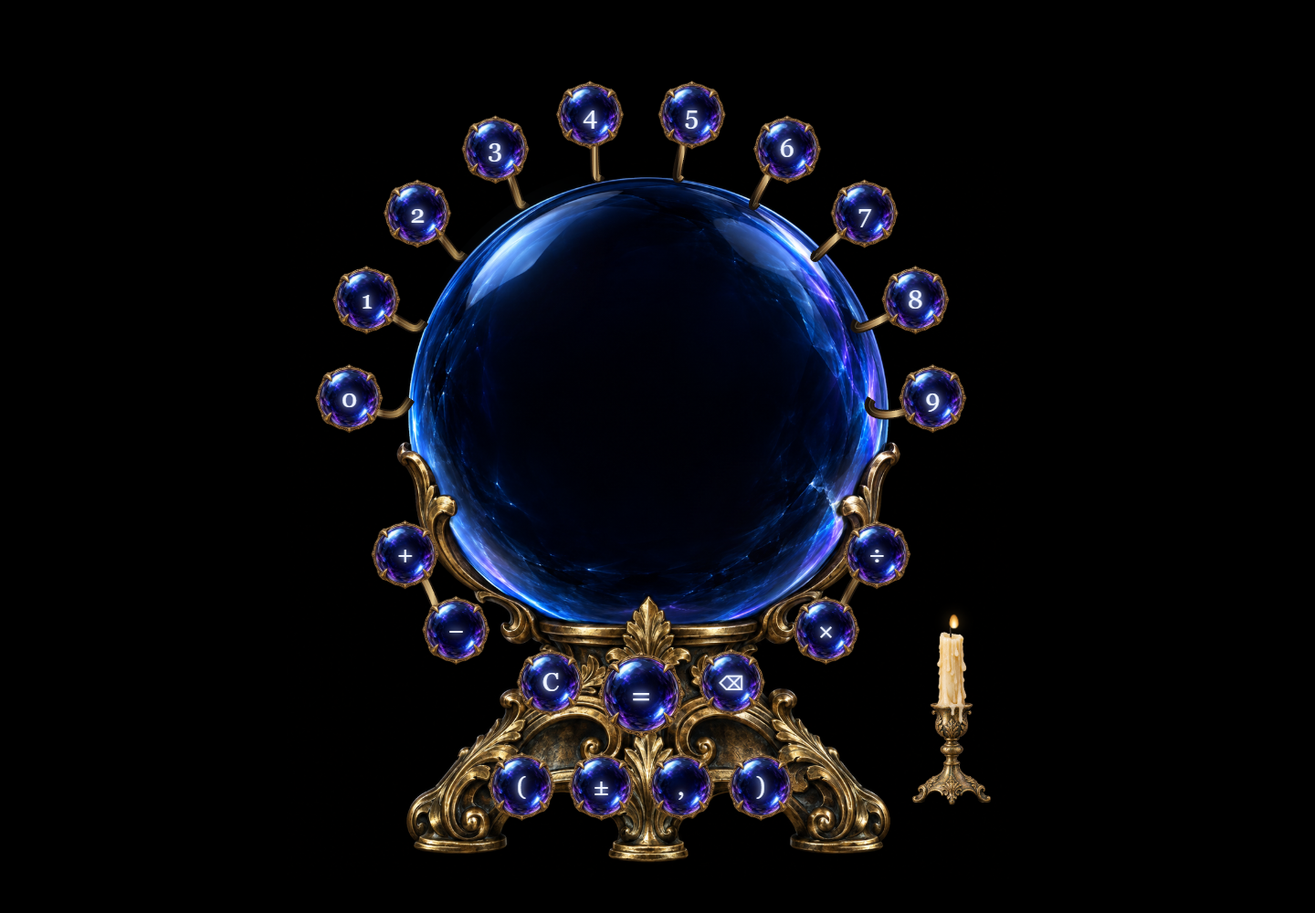
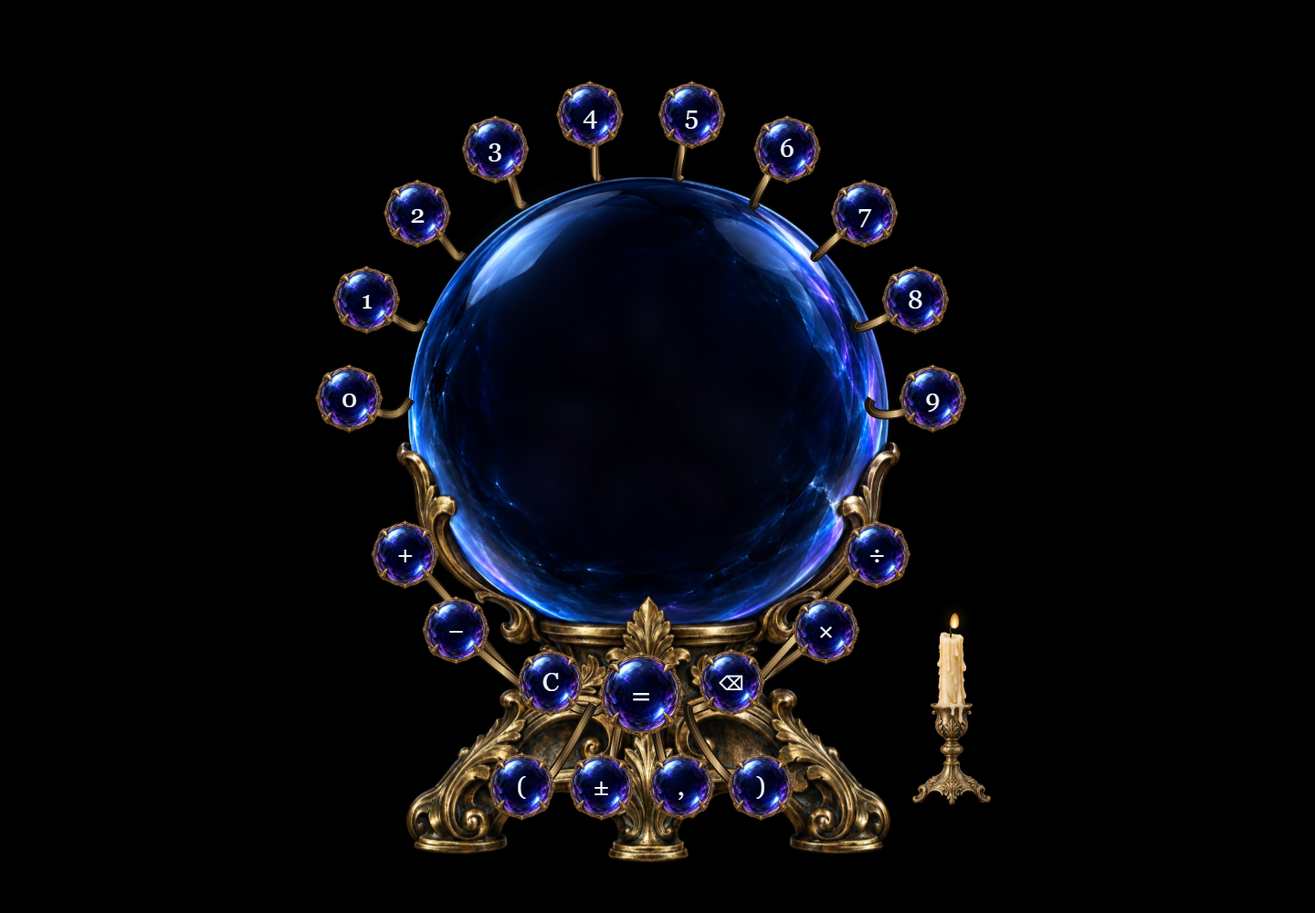
test: verify desktop and portrait behavior and fix review findings

diff --git a/tests/browser/calculator.spec.js b/tests/browser/calculator.spec.js
@@ -1,0 +1,33 @@
+import {test,expect} from '@playwright/test';
+test.beforeEach(async({page})=>{await page.goto('/');await page.waitForFunction(()=>[...document.images].every(i=>i.complete));});
+const key=async(page,text)=>{for(const k of text)await page.keyboard.press(k);};
+const display=page=>page.locator('#display');
+test('empty initial state and local assets',async({page})=>{await expect(display(page)).toHaveText('');expect(await page.locator('img').evaluateAll(images=>images.every(i=>i.naturalWidth>0))).toBe(true);});
+test('mouse and keyboard arithmetic parity',async({page})=>{
+  await page.getByRole('button',{name:'2',exact:true}).click();await page.getByRole('button',{name:'Plus',exact:true}).click();await key(page,'3*4');await page.keyboard.press('Enter');await expect(display(page)).toHaveText('14');
+  await page.keyboard.press('Escape');await key(page,'(2+3)*4');await page.keyboard.press('Enter');await expect(display(page)).toHaveText('20');
+});
+test('decimal comma, negation, nested parentheses',async({page})=>{
+  await key(page,'0.1+0,2');await page.keyboard.press('Enter');await expect(display(page)).toHaveText('0,3');await page.keyboard.press('Escape');
+  await key(page,'25+12');await page.getByRole('button',{name:'Vorzeichen wechseln'}).click();await expect(display(page)).toHaveText('25+(−12)');await page.keyboard.press('Enter');await expect(display(page)).toHaveText('13');
+});
+test('result continuation and fresh digit',async({page})=>{await key(page,'1/3');await page.keyboard.press('Enter');await expect(display(page)).not.toHaveText('1÷3');await key(page,'*3');await page.keyboard.press('Enter');await expect(display(page)).toHaveText('1');await page.keyboard.press('7');await expect(display(page)).toHaveText('7');});
+test('hidden smoke count reverses without lost input',async({page})=>{await key(page,'123456789012');await expect(display(page)).toHaveText('456789012');await expect(page.locator('#orb')).toHaveAttribute('data-hidden','3');await page.keyboard.press('Backspace');await expect(display(page)).toHaveText('345678901');await expect(page.locator('#orb')).toHaveAttribute('data-hidden','2');});
+test('repeated equals does not restart result vision',async({page})=>{await key(page,'2+2');await page.keyboard.press('Enter');await page.waitForTimeout(700);await page.keyboard.press('Enter');await expect(display(page)).toHaveText('4',{timeout:800});});
+for(const delay of [80,700,1200])test('C cancels result at '+delay+'ms',async({page})=>{await key(page,'2+3');await page.keyboard.press('Enter');await page.waitForTimeout(delay);await page.keyboard.press('Escape');await expect(display(page)).toHaveText('');await page.waitForTimeout(1500);await expect(display(page)).toHaveText('');await key(page,'8');await expect(display(page)).toHaveText('8');});
+for(const delay of [120,1100,2500])test('C cancels wizard and audio at '+delay+'ms',async({page})=>{await key(page,'5/(3-3)');await page.keyboard.press('Enter');await page.waitForTimeout(delay);await page.keyboard.press('Escape');await expect(page.locator('#wizard')).toHaveCSS('opacity','0');await expect(display(page)).toHaveText('');await key(page,'9');await page.waitForTimeout(1300);await expect(display(page)).toHaveText('9');});
+test('wizard changes facial frames and returns to idle',async({page})=>{await key(page,'5/0');await page.keyboard.press('Enter');await page.waitForTimeout(1000);await expect(page.locator('#wizard')).not.toHaveCSS('opacity','0');const first=await page.locator('#wizard').evaluate(e=>e.style.backgroundPosition);await page.waitForTimeout(150);const second=await page.locator('#wizard').evaluate(e=>e.style.backgroundPosition);expect(first).not.toEqual(second);await expect(page.locator('#artifact')).toHaveAttribute('data-state','idle',{timeout:3500});await expect(display(page)).toHaveText('');});
+test('sound persists across reload and keyboard toggles candle',async({page})=>{const candle=page.locator('#candle');await candle.click();await expect(candle).toHaveAttribute('aria-pressed','false');await page.reload();await expect(candle).toHaveAttribute('aria-pressed','false');await candle.focus();await page.keyboard.press('Enter');await expect(candle).toHaveAttribute('aria-pressed','true');});
+test('geometry: symmetry, no hit overlap, viewport bounds, centered display',async({page})=>{
+  await key(page,'123+456');
+  const geometry=await page.evaluate(()=>{
+    const rect=e=>{const r=e.getBoundingClientRect();return{x:r.x,y:r.y,w:r.width,h:r.height};};
+    return{controls:[...document.querySelectorAll('.sphere')].map(e=>({action:e.dataset.action,...rect(e)})),orb:rect(document.querySelector('#orb')),display:rect(document.querySelector('#display')),w:innerWidth,h:innerHeight};
+  });
+  const {controls,orb}=geometry;
+  for(const c of controls){expect(c.x).toBeGreaterThanOrEqual(0);expect(c.y).toBeGreaterThanOrEqual(0);expect(c.x+c.w).toBeLessThanOrEqual(geometry.w);expect(c.y+c.h).toBeLessThanOrEqual(geometry.h);}
+  for(let i=0;i<10;i++){const a=controls[i],b=controls[9-i];expect(Math.abs(a.y-b.y)).toBeLessThan(.1);expect(Math.abs((a.x+a.w/2+b.x+b.w/2)/2-(orb.x+orb.w/2))).toBeLessThan(.1);}
+  for(let i=0;i<controls.length;i++)for(let j=i+1;j<controls.length;j++){const a=controls[i],b=controls[j];const distance=Math.hypot(a.x+a.w/2-b.x-b.w/2,a.y+a.h/2-b.y-b.h/2);expect(distance).toBeGreaterThanOrEqual((a.w+b.w)/2-.1);}
+  expect(Math.abs(geometry.display.y+geometry.display.h/2-orb.y-orb.h/2)).toBeLessThan(.1);
+});
+test('no runtime errors during rapid interruptions',async({page})=>{const errors=[];page.on('pageerror',e=>errors.push(e.message));for(let i=0;i<12;i++){await key(page,'2+2');await page.keyboard.press('Enter');await page.keyboard.press('Escape');await key(page,'5/0');await page.keyboard.press('Enter');await page.keyboard.press('Escape');}expect(errors).toEqual([]);});

diff --git a/src/style.css b/src/style.css
@@ -2,3 +2,14 @@
 *{box-sizing:border-box}html,body{margin:0;width:100%;height:100%;overflow:hidden;background:#000}main{width:100%;height:100%;position:relative;isolation:isolate}.artifact{position:absolute;left:50%;top:50%;transform-origin:center;user-select:none;-webkit-user-select:none}.artifact-body{position:absolute;height:auto;pointer-events:none;z-index:1}.supports{position:absolute;inset:0;width:100%;height:100%;pointer-events:none;z-index:2}.foreground-frame{z-index:7;clip-path:inset(64% 0 0)}.orb{position:absolute;border-radius:50%;overflow:hidden;z-index:3;isolation:isolate;pointer-events:none}.orb canvas{position:absolute;inset:0;width:100%;height:100%;pointer-events:none}#rear-smoke{z-index:1}#front-smoke{z-index:4}.display{position:absolute;left:50%;top:50%;transform:translate(-50%,-50%);display:flex;align-items:center;justify-content:center;white-space:nowrap;font-size:46px;font-weight:400;line-height:1;height:56px;z-index:2;filter:drop-shadow(0 0 3px #acdfff99) drop-shadow(0 0 9px #707bec80);font-variant-numeric:lining-nums tabular-nums}.glyph{display:inline-block;min-width:.52em;text-align:center}.glyph.optical{padding-inline:.04em}.glass-reflection{position:absolute;inset:0;border-radius:50%;z-index:5;background:radial-gradient(ellipse at 24% 17%,#b6e2ff08,transparent 19%),radial-gradient(ellipse at 76% 79%,#7065ff06,transparent 20%);animation:breath 9s ease-in-out infinite alternate}.sphere{position:absolute;z-index:8;padding:0;border:0;background:transparent url('../assets/control.png') center/100% 100% no-repeat;cursor:pointer;border-radius:50%;font-family:inherit;color:#f0f5ff;touch-action:manipulation;-webkit-tap-highlight-color:transparent}.sphere span{font-size:31px;line-height:1;display:block;filter:drop-shadow(0 0 4px #a8ccff) drop-shadow(0 0 7px #6767cc);position:relative;top:-1px}.sphere[data-action='='] span{font-size:39px}.sphere[data-action='backspace'] span{font-size:26px}.sphere::after{content:'';position:absolute;inset:16%;border-radius:50%;background:radial-gradient(ellipse at 36% 30%,#c3ebff70,#8a77ff18 45%,transparent 72%);opacity:0;transition:opacity .18s;pointer-events:none}.sphere:hover::after{opacity:.43}.sphere:focus-visible{outline:1px solid #bfe6ff;outline-offset:2px}.sphere.active::after{animation:activate .32s ease-out}.candle{position:absolute;z-index:9;appearance:none;border:0;background:transparent;cursor:pointer;padding:0;clip-path:inset(-12% 25% 0);touch-action:manipulation}.candle img{width:100%;height:100%;display:block;pointer-events:none}.flame{position:absolute;left:48.5%;top:-4%;width:5%;height:8%;border-radius:55% 45% 48% 48%;background:radial-gradient(ellipse at 50% 78%,#fffce5 0 15%,#ffcf70 35%,#ed922ccc 65%,transparent 73%);filter:drop-shadow(0 0 8px #eead4b70);transform-origin:50% 100%;animation:flicker 1.7s ease-in-out infinite alternate;transition:opacity .12s}.candle.muted .flame{opacity:0}.candle:focus-visible{filter:drop-shadow(0 0 3px #bdd9ff)}.wick-smoke{position:absolute;left:49%;top:-10%;width:4%;height:14%;border-radius:50%;background:linear-gradient(transparent,#acbbcf60,transparent);filter:blur(3px);opacity:0}.candle.extinguishing .wick-smoke{animation:wick 1.2s ease-out}.wizard{position:absolute;left:19%;top:29%;width:62%;height:62%;background-image:url('../assets/wizard-laugh.png');background-size:400% 200%;background-position:0 0;z-index:3;opacity:0;mask-image:linear-gradient(#000 0 60%,transparent 100%);filter:drop-shadow(0 0 15px #7672cd55)}.sr-only{position:absolute;width:1px;height:1px;padding:0;margin:-1px;overflow:hidden;clip:rect(0,0,0,0);white-space:nowrap;border:0}
 @keyframes breath{to{opacity:.48}}@keyframes activate{0%{opacity:.95}100%{opacity:0}}@keyframes flicker{0%,100%{transform:rotate(-2deg) scaleY(.94)}24%{transform:rotate(3deg) scaleY(1.03)}51%{transform:rotate(-1deg) scaleY(.98)}77%{transform:rotate(2deg) scaleY(1.07)}}@keyframes wick{0%{opacity:.55;transform:translateY(4px) rotate(-5deg)}100%{opacity:0;transform:translateY(-30px) rotate(13deg)}}
 @media(prefers-reduced-motion:reduce){.glass-reflection,.flame{animation:none}.sphere::after{transition:none}}
+
+/* Keep static art in explicit compositor layers while glyph filters animate. */
+.artifact-body,.supports,#controls{transform:translateZ(0)}
+#controls{position:absolute;inset:0;z-index:8;pointer-events:none}
+.sphere{pointer-events:auto}
+
+/* Luminous scattering is painted in the crystal canvas, avoiding filtered DOM compositing corruption. */
+.display{filter:none}
+.sphere span{filter:none}
+
+.foreground-frame{display:none}

diff --git a/src/state.js b/src/state.js
@@ -1,7 +1,7 @@
 import { calculate } from './evaluator.js';
 import { normalize, formatResult, displayWindow } from './formatter.js';
 import { validPrefix, isComplete, negateLastNumber } from './input.js';
-export const initialState = () => ({ expression: '', result: null, mode: 'idle', revision: 0, effect: null });
+export const initialState = () => ({ expression: '', result: null, displayPrefix: null, mode: 'idle', revision: 0, effect: null });
 export function reduce(state, action) {
   if (action === 'C') return { ...initialState(), revision: state.revision + 1, effect: { type: 'clear' } };
   if (state.mode === 'error') return state;
@@ -13,12 +13,17 @@ export function reduce(state, action) {
       return { ...state, expression: '', result: null, mode: 'error', revision: state.revision + 1, effect: { type: 'error' } };
     }
   }
-  let expression = state.expression;
+  let expression = state.expression, displayPrefix = state.displayPrefix;
   if (state.mode === 'result') {
+    displayPrefix = null;
     if (/^[0-9,(]$/.test(action)) expression = '';
-    else if (action === 'backspace') expression = String(state.result);
-    else expression = String(state.result);
+    else if (action === 'backspace') expression = normalize(state.result);
+    else {
+      expression = String(state.result);
+      displayPrefix = { raw: expression, text: normalize(state.result) };
+    }
   }
+  if (action === 'backspace' && displayPrefix && expression === displayPrefix.raw) { expression = displayPrefix.text; displayPrefix = null; }
   if (action === 'backspace') expression = expression.slice(0, -1);
   else if (action === '+/-') expression = negateLastNumber(expression);
   else {
@@ -27,12 +32,14 @@ export function reduce(state, action) {
     expression += char === '.' && (!expression || /[+*/(-]$/.test(expression)) ? '0.' : char;
   }
   if (!validPrefix(expression) || expression === state.expression && state.mode !== 'result') return state;
-  const previous = displayWindow(state.mode === 'result' ? formatResult(state.result) : state.expression);
-  const next = displayWindow(expression);
-  return { expression, result: null, mode: expression ? 'input' : 'idle', revision: state.revision + 1, effect: { type: 'input', delta: next.hidden - previous.hidden, reverse: action === 'backspace' } };
+  if(displayPrefix && !expression.startsWith(displayPrefix.raw))displayPrefix=null;
+  const previous = presentation(state);
+  const next = presentation({expression,displayPrefix,mode:'input'});
+  return { expression, result: null, displayPrefix, mode: expression ? 'input' : 'idle', revision: state.revision + 1, effect: { type: 'input', delta: next.hidden - previous.hidden, reverse: action === 'backspace' } };
 }
 export function presentation(state) {
   if (state.mode === 'result') return { full: normalize(state.result), visible: formatResult(state.result), hidden: 0 };
-  return displayWindow(state.expression);
+  const prefix=state.displayPrefix;
+  return displayWindow(prefix&&state.expression.startsWith(prefix.raw)?prefix.text+state.expression.slice(prefix.raw.length):state.expression);
 }
 

diff --git a/src/display.js b/src/display.js
@@ -1,12 +1,26 @@
 export class Display {
-  constructor(element) {this.element=element;this.text='';}
+  constructor(element) {
+    this.element=element;this.text='';
+    this.glow=document.createElement('canvas');this.glow.width=this.glow.height=570;this.glow.style.zIndex='2';
+    element.parentElement.insertBefore(this.glow,element);this.context=this.glow.getContext('2d');
+  }
+  paintGlow(){
+    const ctx=this.context;ctx.clearRect(0,0,570,570);ctx.font='46px Georgia';ctx.textAlign='center';ctx.textBaseline='middle';ctx.fillStyle='#b7d3ff';ctx.shadowColor='#8298f0';ctx.shadowBlur=12;ctx.globalAlpha=.4;
+    for(const el of this.element.children){const x=(570-this.element.offsetWidth)/2+el.offsetLeft+el.offsetWidth/2;ctx.fillText(el.textContent,x,285);}
+  }
+  points() {
+    const orb=this.element.parentElement.getBoundingClientRect();
+    return [...this.element.children].map(el=>{const r=el.getBoundingClientRect();return{x:(r.x+r.width/2-orb.x)/orb.width,y:.5};});
+  }
   show(text, {animate=true,reverse=false}={}) {
     const previous=this.text; this.text=text;
-    const oldPositions=[...this.element.children].map(el=>({char:el.textContent,left:el.offsetLeft}));
+    const scale=this.element.parentElement.getBoundingClientRect().width/this.element.parentElement.offsetWidth;
+    const oldPositions=[...this.element.children].map(el=>({char:el.textContent,left:el.getBoundingClientRect().left}));
     this.element.replaceChildren();
     for(const char of text) {
       const el=document.createElement('span'); el.className='glyph'+(/[+−×÷()]/.test(char)?' optical':''); el.textContent=char;this.element.append(el);
     }
+    this.paintGlow();
     if(!animate)return;
     const nodes=[...this.element.children];
     nodes.forEach((el,i)=> {
@@ -14,11 +28,11 @@ export class Display {
       if(previous.length===9&&text.length===9)from=reverse?i-1:i+1;
       const old=oldPositions[from];
       if(old?.char===el.textContent) {
-        const dx=old.left-el.offsetLeft;
+        const dx=(old.left-el.getBoundingClientRect().left)/scale;
         if(dx)el.animate([{transform:`translateX(${dx}px)`},{transform:'translateX(0)'}],{duration:190,easing:'ease-out'});
       } else el.animate([{opacity:0,filter:'blur(6px)'},{opacity:1,filter:'blur(0px)'}],{duration:220});
     });
   }
-  cancel() { for(const animation of this.element.getAnimations({subtree:true}))animation.cancel();this.element.style.opacity='1';this.element.style.filter=''; }
-  dissolve(duration=260) {return this.element.animate([{opacity:1,filter:'blur(0)'},{opacity:0,filter:'blur(10px)'}],{duration,fill:'forwards'});}
+  cancel() { for(const animation of [...this.element.getAnimations({subtree:true}),...this.glow.getAnimations()])animation.cancel();this.element.style.opacity='1';this.element.style.filter=''; }
+  dissolve(duration=260) {this.glow.animate([{opacity:1},{opacity:0}],{duration,fill:'forwards'});return this.element.animate([{opacity:1},{opacity:0}],{duration,fill:'forwards'});}
 }

diff --git a/src/smoke.js b/src/smoke.js
@@ -4,7 +4,7 @@ export class Smoke {
     this.canvases=[rear,front];this.contexts=this.canvases.map(c=>c.getContext('2d'));this.particles=[];this.hidden=0;this.mode='idle';this.energy=0;this.last=0;this.frame=0;
     this.reduced=matchMedia('(prefers-reduced-motion: reduce)').matches;
     this.sprites=['115,138,240','114,83,210','46,42,77'].map(rgb=>{
-      const c=document.createElement('canvas');c.width=c.height=96;const ctx=c.getContext('2d'),g=ctx.createRadialGradient(48,48,0,48,48,48);g.addColorStop(0,`rgba(${rgb},.35)`);g.addColorStop(.4,`rgba(${rgb},.15)`);g.addColorStop(1,`rgba(${rgb},0)`);ctx.fillStyle=g;ctx.fillRect(0,0,96,96);return c;
+      const c=document.createElement('canvas');c.width=c.height=96;const ctx=c.getContext('2d'),g=ctx.createRadialGradient(48,48,0,48,48,48);g.addColorStop(0,`rgba(${rgb},.75)`);g.addColorStop(.4,`rgba(${rgb},.35)`);g.addColorStop(1,`rgba(${rgb},0)`);ctx.fillStyle=g;ctx.fillRect(0,0,96,96);return c;
     });
     this.resize=()=>{const width=rear.getBoundingClientRect().width;const size=Math.min(900,Math.max(256,Math.round(width*Math.min(devicePixelRatio,1.6))));this.size=size;for(const c of this.canvases)c.width=c.height=size;};
     addEventListener('resize',this.resize);this.resize();this.tick=this.tick.bind(this);this.frame=requestAnimationFrame(this.tick);
@@ -27,11 +27,11 @@ export class Smoke {
       ctx.clearRect(0,0,size,size);ctx.save();ctx.scale(size,size);ctx.beginPath();ctx.arc(.5,.5,.485,0,Math.PI*2);ctx.clip();
       const count=layer?5:12;
       for(let i=0;i<count;i++){
-        const angle=i*2.399+t*(this.reduced?.008:.026)*(i%2?1:-1);
+        const angle=i*2.399+t*(this.reduced?.008:this.mode==='error'?.23:.026)*(i%2?1:-1);
         const radius=this.mode==='result'?.07+.07*Math.sin(t*3+i):.2+.06*Math.sin(i+t*.12);
-        const x=.5+Math.cos(angle)*radius,y=.55+Math.sin(angle)*radius*.82;
+        const x=.5+Math.cos(angle)*radius,y=(layer&&this.mode==='error'?.76:.55)+Math.sin(angle)*radius*.82;
         const extent=.28+.08*Math.sin(i*1.7+t*.2);
-        ctx.globalAlpha=(layer?.14:.33)*(0.19+Math.log1p(this.hidden)*.12+this.energy*1.8);
+        ctx.globalAlpha=clamp((layer?.18:.38)*(0.12+Math.log1p(this.hidden)*.12+this.energy*1.8),0,1);
         if(this.mode==='error')ctx.globalAlpha*=1.35;
         ctx.save();ctx.translate(x,y);ctx.rotate(angle);ctx.scale(1,.58+.1*Math.sin(t+i));
         ctx.drawImage(this.sprites[this.mode==='error'?2:i%2],-extent/2,-extent/2,extent,extent);ctx.restore();

diff --git a/tests/animation.test.js b/tests/animation.test.js
@@ -1,0 +1,30 @@
+import test from 'node:test';
+import assert from 'node:assert/strict';
+import { AnimationController } from '../src/animation.js';
+import { AudioController } from '../src/audio.js';
+function fixture(){
+  let callback=null,shown='2+2',laughs=0,stops=0,ended=0;
+  globalThis.requestAnimationFrame=fn=>{callback=fn;return 1;};globalThis.cancelAnimationFrame=()=>{callback=null;};
+  const display={text:shown,points:()=>[{x:.5,y:.5}],cancel(){},dissolve(){},show(text){shown=text;}};
+  const smoke={mode:'idle',setHidden(){},burst(){},reset(){}};
+  const audio={stop(){stops++;},laugh(){laughs++;}};
+  const wizard={style:{}};
+  const controller=new AnimationController({display,smoke,audio,wizard,onErrorEnd(){ended++;}});
+  return{controller,wizard,step(time){const fn=callback;callback=null;fn?.(time);},get shown(){return shown;},get laughs(){return laughs;},get stops(){return stops;},get ended(){return ended;}};
+}
+test('wizard has exactly three laugh impulses on its visual timeline',()=>{
+  const f=fixture();f.controller.error();const start=performance.now();
+  for(const time of [0,850,950,1290,1530,1800,2210,2410,2900,3501])f.step(start+time);
+  assert.equal(f.laughs,3);assert.equal(f.ended,1);assert.equal(f.wizard.style.opacity,'0');
+});
+test('clear invalidates pending result and wizard frames',()=>{
+  for(const mode of ['result','error']){const f=fixture();f.controller[mode]('4');f.controller.clear();f.step(performance.now()+5000);assert.equal(f.shown,'');assert.equal(f.laughs,0);assert.equal(f.wizard.style.opacity,'0');assert.ok(f.stops>=2);}
+});
+test('result is present at 1.1 seconds and final settling ends at 1.4 seconds',()=>{
+  const f=fixture();f.controller.result('4');const start=performance.now();f.step(start+1110);assert.equal(f.shown,'4');assert.equal(f.controller.mode,'settling');f.step(start+1410);assert.equal(f.controller.mode,'idle');
+});
+test('audio stop disconnects every registered node and stops every source',()=>{
+  const audio=new AudioController();let stops=0,disconnects=0;
+  audio.nodes.add({stop(){stops++;},disconnect(){disconnects++;}});audio.nodes.add({disconnect(){disconnects++;}});
+  audio.stop();assert.equal(stops,1);assert.equal(disconnects,2);assert.equal(audio.nodes.size,0);
+});

diff --git a/src/layout.js b/src/layout.js
@@ -1,6 +1,6 @@
 export const masters = {
   standard: { width: 1000, height: 1000, cx: 480, cy: 430, diameter: 570, arcX: 355, arcY: 350, baseY: 790, candle: [858,815,230] },
-  portrait: { width: 780, height: 1100, cx: 390, cy: 430, diameter: 570, arcX: 335, arcY: 345, baseY: 790, candle: [708,932,200] }
+  portrait: { width: 780, height: 1100, cx: 390, cy: 430, diameter: 570, arcX: 335, arcY: 345, baseY: 790, candle: [721,999,160] }
 };
 export function coordinates(master) {
   const { cx, cy, arcX, arcY, baseY } = master;
@@ -42,7 +42,7 @@ export function mountLayout(activate) {
     const svg=document.querySelector('#supports'); svg.setAttribute('viewBox',`0 0 ${current.width} ${current.height}`);
     // Multi-pass metal relief: dark load-bearing silhouette, warm patina and a narrow reflected edge.
     const paths=positions.map(p=> {
-      const target=p.digit?{x:current.cx+(p.x-current.cx)*0.79,y:current.cy+(p.y-current.cy)*0.79}:{x:current.cx+(p.x-current.cx)*0.72,y:current.baseY+12};
+      const target=p.digit?{x:current.cx+(p.x-current.cx)*0.79,y:current.cy+(p.y-current.cy)*0.79}:{x:current.cx+(p.x-current.cx)*0.4,y:current.baseY+12};
       return `M${p.x} ${p.y} C${p.x+(current.cx-p.x)*0.16} ${p.y+32},${target.x-12} ${target.y+18},${target.x} ${target.y}`;
     });
     svg.innerHTML='<defs><linearGradient id="metal"><stop stop-color="#17100a"/><stop offset=".23" stop-color="#876239"/><stop offset=".42" stop-color="#dfc38a"/><stop offset=".56" stop-color="#4e341b"/><stop offset=".81" stop-color="#a88750"/><stop offset="1" stop-color="#21170e"/></linearGradient></defs>'+paths.map(d=>`<path d="${d}" fill="none" stroke="#1d150e" stroke-width="12"/><path d="${d}" fill="none" stroke="url(#metal)" stroke-width="8"/><path d="${d}" fill="none" stroke="#dbca9a" stroke-opacity=".35" stroke-width="1"/>`).join('');

diff --git a/src/animation.js b/src/animation.js
@@ -6,14 +6,15 @@ export class AnimationController {
   }
   clear(){this.cancel();this.smoke.reset();this.display.show('',{animate:false});}
   input(text,hidden,effect){
+    const previousPoints=this.display.points();
     this.cancel();this.smoke.setHidden(hidden);this.display.show(text,{reverse:effect.reverse});
-    if(effect.delta){this.smoke.burst(.22,.5,Math.min(36,Math.abs(effect.delta)*15),effect.delta<0);}
-    else if(text)this.smoke.burst(.5+Math.min(text.length,9)*.024,.5,5);
+    const nextPoints=this.display.points();
+    if(effect.delta){const points=effect.delta<0?nextPoints:previousPoints;for(const p of points.slice(0,Math.abs(effect.delta)))this.smoke.burst(p.x,p.y,15,effect.delta<0);}
+    else if(text){const p=nextPoints.at(-1);if(p)this.smoke.burst(p.x,p.y,5);}
   }
   result(text){
     this.cancel();this.mode='result';this.smoke.mode='result';this.smoke.energy=1;this.smoke.setHidden(0);this.display.dissolve();
-    const count=Math.max(1,this.display.text.length);
-    for(let i=0;i<count;i++)this.smoke.burst(.5+(i-(count-1)/2)*.05,.5,12);
+    for(const p of this.display.points())this.smoke.burst(p.x,p.y,12);
     const generation=this.generation,start=performance.now();let materialized=false;
     const tick=now=>{
       if(generation!==this.generation)return;

diff --git a/tests/core.test.js b/tests/core.test.js
@@ -49,3 +49,8 @@ test('rapid entry and reversal never desynchronize hidden count', () => {
   assert.equal(presentation(s).visible,'');
 });
 test('depth and input limits prevent runaway work', () => { assert.equal(validPrefix('('.repeat(129)),false); assert.equal(validPrefix('1'.repeat(513)),false); });
+test('continuation hides floating artifacts without changing internal precision',()=>{
+  const result=type([...'0,1+0,2','=']);const next=reduce(result,'+');
+  assert.equal(presentation(next).visible,'0,3+');assert.equal(next.expression,'0.30000000000000004+');
+  const shortened=reduce(reduce(next,'backspace'),'backspace');assert.equal(shortened.expression,'0.');
+});

diff --git a/playwright.config.js b/playwright.config.js
@@ -1,0 +1,7 @@
+import { defineConfig } from '@playwright/test';
+export default defineConfig({
+  testDir:'./tests/browser',fullyParallel:false,workers:1,timeout:15000,
+  use:{baseURL:'http://127.0.0.1:4173',channel:'msedge',headless:true},
+  webServer:{command:'npm.cmd start',url:'http://127.0.0.1:4173',reuseExistingServer:true},
+  projects:[{name:'desktop',use:{viewport:{width:1440,height:1000}}},{name:'portrait',use:{viewport:{width:390,height:844},isMobile:true,hasTouch:true}}]
+});

diff --git a/index.html b/index.html
@@ -21,7 +21,6 @@
         <canvas id="front-smoke"></canvas>
         <div class="glass-reflection"></div>
       </div>
-      <img class="artifact-body foreground-frame" src="assets/artifact.png" alt="" draggable="false">
       <div id="controls"></div>
       <button id="candle" class="candle" type="button" aria-label="Ton ausschalten" aria-pressed="true">
         <img src="assets/candle.png" alt="" draggable="false"><span class="flame"></span><span class="wick-smoke"></span>

diff --git a/docs/ASSETS.md b/docs/ASSETS.md
@@ -1,0 +1,36 @@
+# Eigene Grafikassets und Austauschvertrag
+
+Erzeugung: integriertes **ImageGen**, vier separate Aufrufe, 13.09.2026. Kein CLI-Fallback und kein API-Schlüssel. Ausgaben wurden unverändert ins Repository kopiert; Alpha-Kanäle der transparenten Assets bleiben erhalten. Kein Material wurde aus dem Nachbarprojekt übernommen.
+
+| Datei | Verwendung / Vertrag |
+| --- | --- |
+| `assets/artifact.png` | Kristall und Messingsockel auf Schwarz. Layout transformiert dieses Asset einheitlich. Rauch bleibt auf das Innere der Kugel begrenzt; der Sockel bleibt frei. |
+| `assets/control.png` | Eine eigene konvexe Kristallfassung, transparent. Wiederverwendet für alle Tasten, Beschriftung separat im DOM. |
+| `assets/candle.png` | Unbeleuchtete Wachskerze mit Halter, transparent. Flamme/Dochtrauch sind dynamische Overlays. |
+| `assets/wizard-laugh.png` | Transparentes 4×2-Sprite-Sheet mit acht Gesichtszuständen. Eine Lachbewegung dauert 440 ms und beginnt bei 850, 1530 und 2210 ms. |
+
+Die Animation ist eine eigens erstellte Sequenz veränderter Mund-, Augen-, Wangen- und Bartposen. Sie beruht nicht auf Skalieren/Rotieren eines einzigen Gesichts. Der untere Konturverlauf wird im Kristall zusätzlich über Rauch und Alpha-Maske eingebettet.
+
+## Späterer finaler Ton
+
+Die aktuelle Synthese in `src/audio.js` ist eine vom Nutzer bestätigte Zwischenlösung. Ersatz: eine leise, tiefe ältere Männerstimme mit einem ca. 440 ms langen amüsierten Lachimpuls, ohne Musik oder Sprache; dreimal mit den bestehenden Onsets abspielen. Alternativ eine komplette Aufnahme mit denselben drei Zeitmarken. Dezenter Hall, unmittelbarer Abbruch sämtlicher Quellen durch `stop()`, kein externer Download zur Laufzeit.
+
+## Generierungsprompts
+
+### Kristall und Sockel
+
+Use case: product-mockup. Create a premium photorealistic fantasy game UI asset: ONE perfectly round dark sapphire crystal ball on an intricate aged gold/brass pedestal, front orthographic view on pure black background. Square image 1024x1024. Exact composition: central crystal circle centered at x=512 y=425 with radius 290 pixels. Sphere must be a geometric circle, deep almost black blue transparent center with subtle asymmetric ice-blue rim reflections and violet refraction. No text, digits, symbols, runes, pentagrams, stars or letters anywhere. No little spheres or buttons. 85 percent of circle perimeter free of metal. Thin brass gripping arms only at lower side edges. Heavy ornate symmetrical antique brass pedestal occupies x=220..804 y=710..955, with finely carved curling acanthus, curved arches, patinated recesses and polished highlights, physically supporting crystal. Upper area and sides black and empty. The dark center is for later overlaying glowing calculation text. Realistic materials with rich dimensional relief, restrained light, no environment or floor, no cast shadows outside object. No smoke obscuring center. Entire object in frame.
+
+### Kleine Kristallfassung
+
+Use case: product-mockup. Production transparent PNG game UI asset, square canvas: a single strongly convex spherical dark sapphire and amethyst crystal, perfectly front facing, filling 84 percent of image width and height, perfectly centered. Fine aged gold brass OPEN prong mounting with a slender ornamented rim and exactly four delicate curved prongs at diagonal corners; maximal visible round glass. Realistic crystal spherical volume, near-black blue center intentionally quiet and readable for later text, blue-white soft reflections concentrated upper-left and lower-right, violet refractions. Rich detailed patinated brass dimensional relief, thin polished edges. The setting must not look like a flat button. Genuine transparent background outside the object, no shadow or backdrop. No letters, numbers, text, symbols, runes, scenery. High fidelity realistic fantasy asset matching a luxurious old gold crystal ball artifact.
+
+### Kerze
+
+Use case: product-mockup. One realistic old ivory beeswax candle, UNLIT, in an elaborate small aged brass ornamental candleholder. Production transparent PNG isolated asset for a fantasy crystal-ball calculator. Front facing at level angle. Tall irregular melted wax with natural drips and a small clearly visible black wick at very top. No flame, no smoke (added dynamically later). Ornate brass cup and stable flared base with acanthus curls, dimensional patina and finely polished edges. Thin object centered in square image, entirely within frame, full object from wick to feet. Weak warm illumination enough to see creamy wax and old gold; background fully transparent. No other objects, no floor, no symbols, text, or environment.
+
+### Zauberer-Sequenz
+
+Use case: stylized-concept. Production animation SPRITE SHEET with genuine transparent background. Layout exactly 4 columns x 2 rows, eight equally sized square cells, each with same old wizard head and long white beard registered consistently. No grid lines, no text. Each cell shows complete head and beard front view, same scale and same blue-violet magical rim light. Realistic fantasy elderly human wizard, wise wrinkled distinctive face, amused slightly mocking playful expression, thick white brows and long tapering beard. No hat, no shoulders, no horror, not demonic. Eight sequential animation frames of ONE brief chuckle: frame1 closed mouth mischievous smile eyes open; frame2 lips part cheeks rise; frame3 mouth opens and jaw lowers; frame4 peak laugh mouth wide open eyes narrowed and beard displaced by jaw; frame5 laughing open mouth cheeks highest; frame6 jaw closing eyes reopening; frame7 mouth nearly closed; frame8 closed mouth smile returns. Important: genuinely different facial muscle, mouth, cheek, eyelid and beard poses, not duplicates or rigid transforms. Align eyes at same relative point. Entire beard visible and wispy semi-transparent lower contour. 2048x1024 horizontal sprite sheet preferred, exactly 4x2 cells without margins between cells. Isolated on transparent alpha, no orb or scenery, no background.
+
+Die vom Werkzeug gelieferten Pixelmaße weichen teilweise von den Prompt-Wünschen ab. Die Masterkoordinaten wurden anhand der tatsächlichen Darstellung kalibriert; Sprite-Seitenverhältnis und Raster wurden visuell überprüft.
